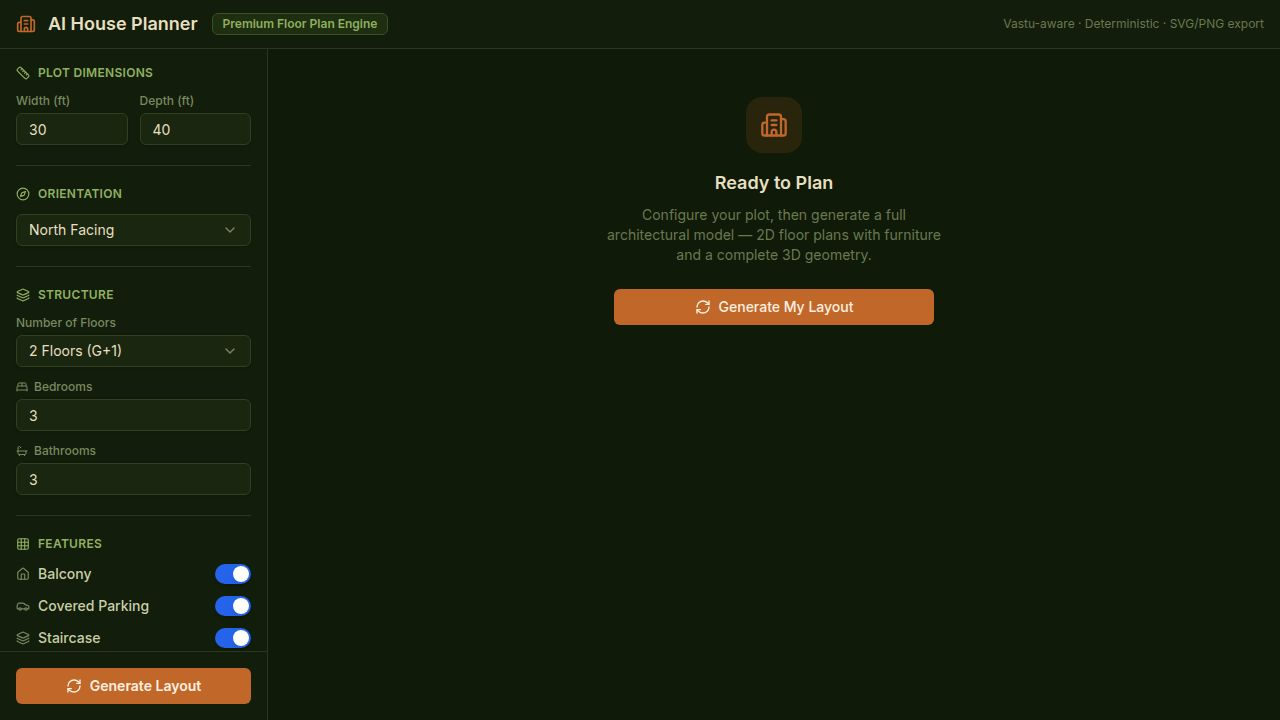
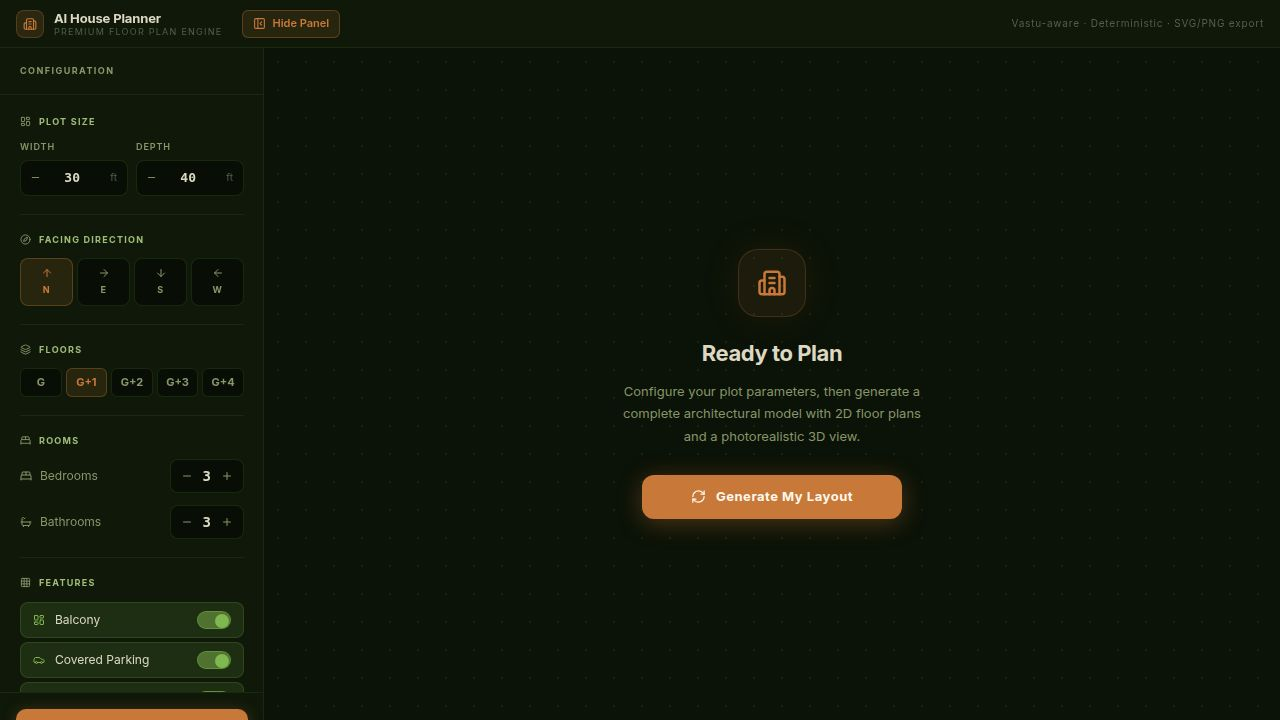
Upgrade 3D rendering libraries to support React 19
Update @user/fiber, @user/drei, and @user/postprocessing to their latest versions, removing the React 19 compatibility shim.

Replit-Commit-Author: Agent
Replit-Commit-Session-Id: ca8d4147-4fd2-4ee0-9091-5eba588ae69d
Replit-Commit-Checkpoint-Type: full_checkpoint
Replit-Commit-Event-Id: 319d729c-41f9-453e-9610-2bfcba4410f8
Replit-Commit-Screenshot-Url: https://storage.googleapis.com/screenshot-production-us-central1/ffdfeee3-8bd2-43c7-9a3d-6d5023524aeb/ca8d4147-4fd2-4ee0-9091-5eba588ae69d/zbVYvUO
Replit-Helium-Checkpoint-Created: true

diff --git a/artifacts/house-planner/src/main.tsx b/artifacts/house-planner/src/main.tsx
@@ -1,43 +1,3 @@
-// ─── React 19 → R3F v8 compatibility shim ────────────────────────────────────
-// R3F v8 bundles react-reconciler (React 18 era) which reads several properties
-// from React.__SECRET_INTERNALS_DO_NOT_USE_OR_YOU_WILL_BE_FIRED that React 19
-// renamed (to short keys like "H","A") or removed entirely.
-// ThreeViewer is lazy-loaded (React.lazy), so THIS body runs before R3F's
-// module evaluates — stubs must be in place before the lazy chunk is resolved.
-import React from "react";
-
-type Obj = Record<string, unknown>;
-const r = React as unknown as Obj;
-
-// Ensure the legacy internals bag exists (React 19 may omit it entirely)
-if (!r["__SECRET_INTERNALS_DO_NOT_USE_OR_YOU_WILL_BE_FIRED"]) {
-  r["__SECRET_INTERNALS_DO_NOT_USE_OR_YOU_WILL_BE_FIRED"] = {};
-}
-const si = r["__SECRET_INTERNALS_DO_NOT_USE_OR_YOU_WILL_BE_FIRED"] as Obj;
-
-// ReactCurrentOwner — fiber owner tracker; R3F reads/writes .current
-if (!si["ReactCurrentOwner"]) {
-  si["ReactCurrentOwner"] = { current: null };
-}
-// ReactCurrentDispatcher — hooks dispatcher; React 19 renamed to "H"
-if (!si["ReactCurrentDispatcher"]) {
-  const ci = r["__CLIENT_INTERNALS_DO_NOT_USE_OR_WARN_USERS_THEY_CANNOT_UPGRADE"] as Obj | undefined;
-  si["ReactCurrentDispatcher"] = ci ?? { current: null };
-}
-// ReactCurrentBatchConfig — batching flags; R3F reads .transition
-if (!si["ReactCurrentBatchConfig"]) {
-  si["ReactCurrentBatchConfig"] = { transition: null };
-}
-// ReactCurrentActQueue — act() test queue; R3F reads .current + flags
-if (!si["ReactCurrentActQueue"]) {
-  si["ReactCurrentActQueue"] = { current: null, isBatchingLegacy: false, didScheduleLegacyUpdate: false };
-}
-// ReactDebugCurrentFrame — error stack helper; R3F calls .getCurrentStack()
-if (!si["ReactDebugCurrentFrame"]) {
-  si["ReactDebugCurrentFrame"] = { current: null, getCurrentStack: () => "" };
-}
-// ─────────────────────────────────────────────────────────────────────────────
-
 import { createRoot } from "react-dom/client";
 import App from "./App";
 import "./index.css";

diff --git a/.agents/memory/r3f-react19-shim.md b/.agents/memory/r3f-react19-shim.md
@@ -1,20 +1,24 @@
 ---
-name: React 19 + R3F v8 shim
-description: How to fix ReactSharedInternals.ReactCurrentOwner crash when R3F v8 runs under React 19
+name: React 19 + R3F v8 shim — resolved by upgrade
+description: The shim approach failed; the real fix is upgrading to R3F v9 + drei v10 + postprocessing v3
 ---
 
 ## The Rule
-The shim in `main.tsx` must CREATE `__SECRET_INTERNALS_DO_NOT_USE_OR_YOU_WILL_BE_FIRED` if it is absent (React 19 may not export it), and must stub ALL the internals properties R3F v8's bundled reconciler reads: `ReactCurrentOwner`, `ReactCurrentDispatcher`, `ReactCurrentBatchConfig`, `ReactCurrentActQueue`.
+Do NOT try to shim React 19 internals for R3F v8. Upgrade to `@react-three/fiber` v9, `@react-three/drei` v10, and `@react-three/postprocessing` v3 instead. These are natively React 19-compatible.
 
-**Why:** R3F v8 bundles its own copy of `react-reconciler` (React 18 era). At module evaluation time, that reconciler reads `React.__SECRET_INTERNALS_DO_NOT_USE_OR_YOU_WILL_BE_FIRED.ReactCurrentOwner` (and others) into local `var` bindings. In React 19 those properties were renamed or removed; if the value is `undefined` the local var is captured as `undefined`, and any later read of `.current` on it crashes (`undefined is not an object` on Safari/WebKit).
+**Why the shim failed:** React 19 changed the `$$typeof` element type symbol from `Symbol.for('react.element')` to `Symbol.for('react.transitional.element')`. R3F v8's bundled `react-reconciler` (React 18 era) hard-codes the old symbol and throws "Objects are not valid as a React child" when it encounters React 19 elements. Shimming the internals bag (`__SECRET_INTERNALS_DO_NOT_USE_OR_YOU_WILL_BE_FIRED`) only partially helps — the `$$typeof` mismatch is fatal and cannot be shimmed at module import time.
 
-**How to apply:** `ThreeViewer` is imported via `React.lazy()` in `HousePlannerPage.tsx`. This means R3F's module code runs during the **first render** of ThreeViewer, not at app startup — so the synchronous shim body in `main.tsx` fires first. The shim must:
-1. Check if `__SECRET_INTERNALS_DO_NOT_USE_OR_YOU_WILL_BE_FIRED` exists; if not, create an empty object and assign it.
-2. Stub `ReactCurrentOwner = { current: null }` if missing.
-3. Stub `ReactCurrentDispatcher = { current: null }` if missing.
-4. Stub `ReactCurrentBatchConfig = { transition: null }` if missing.
-5. Stub `ReactCurrentActQueue = null` if missing.
+**What was tried (fragile):**
+1. Stub `ReactCurrentOwner = { current: null }` → next crash: `ReactCurrentActQueue`
+2. Stub `ReactCurrentActQueue = null` → crash: `ReactCurrentActQueue.current`  
+3. Stub all 5 internals → crash: `$$typeof` element type mismatch
 
-The original shim only patched if `legacyInternals` was truthy — silent no-op when React 19 doesn't export the property at all.
+**The fix:**
+```json
+"@react-three/fiber": "^9.6.1",
+"@react-three/drei": "^10.7.7",
+"@react-three/postprocessing": "^3.0.4"
+```
+Remove all shim code from `main.tsx`. `main.tsx` should be a clean 4-line file with no React internal patching.
 
-**The long-term fix** is to upgrade to `@react-three/fiber` v9 (React 19 native), but that also requires `@react-three/drei` v10 — a larger migration.
+**API compatibility:** ThreeViewer.tsx code compiles cleanly under R3F v9 + drei v10. No JSX/component API changes required. `enableNormalPass={false}` on `EffectComposer`, `N8AO` props, `ContactShadows`, `SoftShadows`, `Environment`, `Html` all remain compatible.